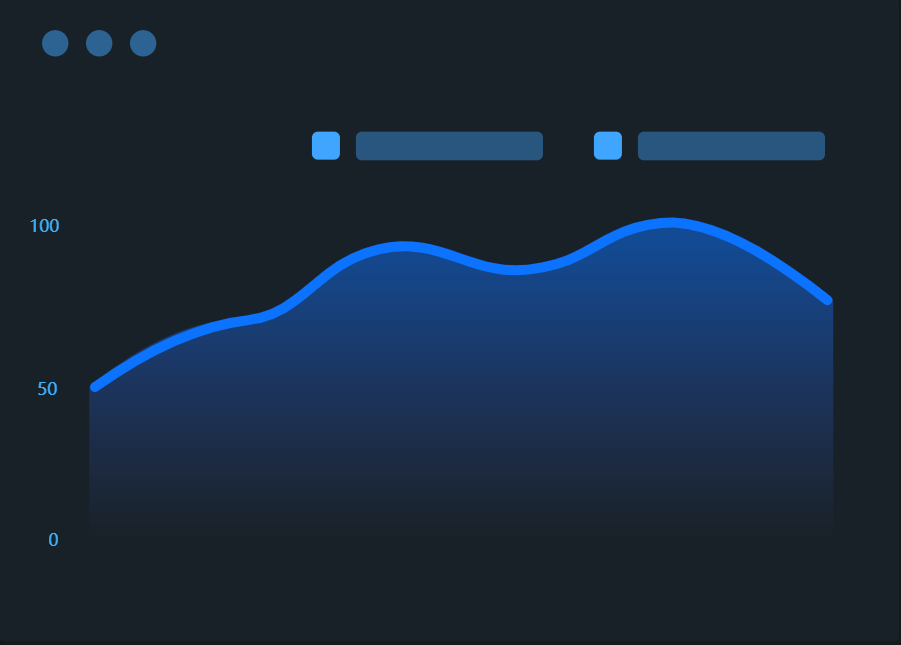
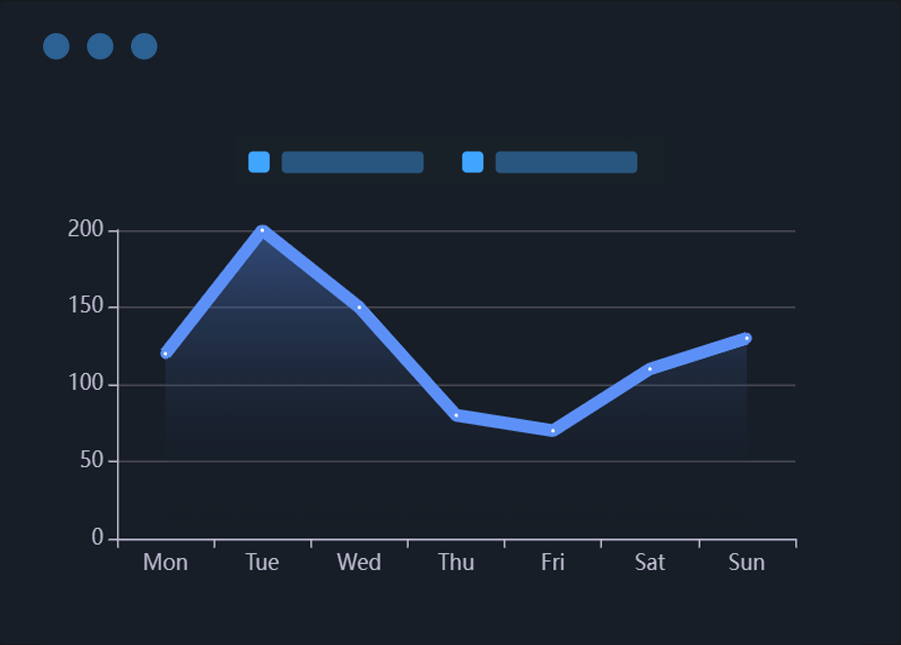
perf: 修改展示图片

diff --git a/src/packages/components/Charts/Lines/LineGradients/index.ts b/src/packages/components/Charts/Lines/LineGradients/index.ts
@@ -1,4 +1,4 @@
-import image from '@/assets/images/chart/charts/line_gradient2.png'
+import image from '@/assets/images/chart/charts/line_gradient.png'
 import { ConfigType, PackagesCategoryEnum, ChartFrameEnum } from '@/packages/index.d'
 import { ChatCategoryEnum, ChatCategoryEnumName } from '../../index.d'
 

diff --git a/src/packages/components/Charts/Mores/Point/index.ts b/src/packages/components/Charts/Mores/Point/index.ts
@@ -6,7 +6,7 @@ export const PointConfig: ConfigType = {
   key: 'Point',
   chartKey: 'VPoint',
   conKey: 'VCPoint',
-  title: '热力图',
+  title: '点状图',
   category: ChatCategoryEnum.MORE,
   categoryName: ChatCategoryEnumName.MORE,
   package: PackagesCategoryEnum.CHARTS,

diff --git a/src/packages/components/Charts/index.ts b/src/packages/components/Charts/index.ts
@@ -4,4 +4,4 @@ import Lines from './Lines'
 import Mores from './Mores'
 import Maps from './Maps'
 
-export const ChartList = [...Bars, ...Pies, ...Lines, ...Maps, ...Mores]
+export const ChartList = [...Bars, ...Lines, ...Pies, ...Maps, ...Mores]
